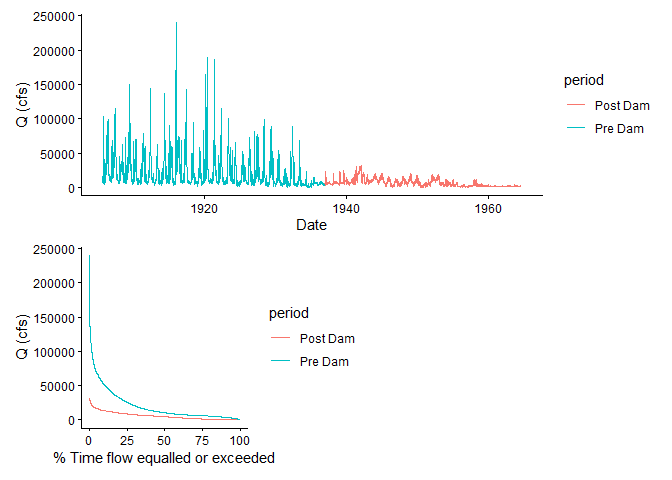
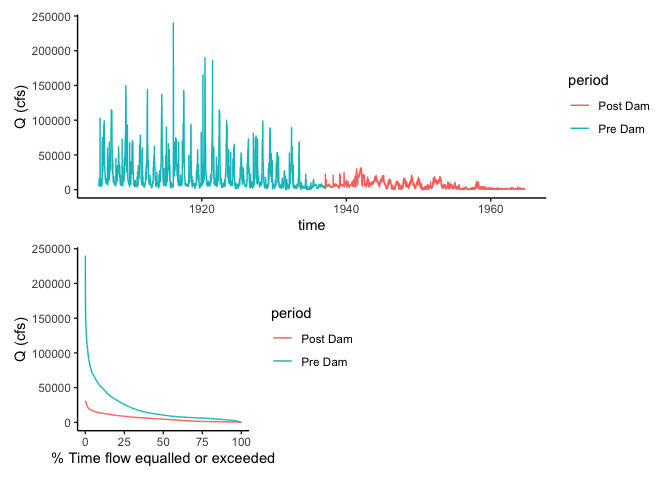
update dataretrieval

diff --git a/09-Flow_Duration_Curves.md b/09-Flow_Duration_Curves.md
@@ -1,6 +1,6 @@
 # Chapter 9: Flow Duration Curves
 JP Gannon
-2026-02-12
+2026-02-13
 
 # Flow Duration Curves
 
@@ -20,8 +20,8 @@ different way of looking at a pdf, and it can take some getting used to.
 But it is also a very useful tool!
 
 As always let’s load the packages we will use: tidyverse, dataRetrieval,
-lubridate, and patchwork. Patchwork will help us make a multi-panel
-graph in the last part of the exercise.
+and patchwork. Patchwork will help us make a multi-panel graph in the
+last part of the exercise.
 
 We will also use theme_set() in this chunk so we don’t have to change
 the ggplot theme every time we make a plot.
@@ -30,22 +30,12 @@ the ggplot theme every time we make a plot.
 library(tidyverse)
 ```
 
-    Warning: package 'tidyverse' was built under R version 4.3.3
-
-    Warning: package 'readr' was built under R version 4.3.3
-
-    Warning: package 'dplyr' was built under R version 4.3.3
-
-    Warning: package 'forcats' was built under R version 4.3.3
-
-    Warning: package 'lubridate' was built under R version 4.3.3
-
     ── Attaching core tidyverse packages ──────────────────────── tidyverse 2.0.0 ──
     ✔ dplyr     1.1.4     ✔ readr     2.1.5
     ✔ forcats   1.0.0     ✔ stringr   1.5.1
-    ✔ ggplot2   4.0.0     ✔ tibble    3.2.1
-    ✔ lubridate 1.9.4     ✔ tidyr     1.3.0
-    ✔ purrr     1.0.2     
+    ✔ ggplot2   3.5.1     ✔ tibble    3.2.1
+    ✔ lubridate 1.9.3     ✔ tidyr     1.3.1
+    ✔ purrr     1.0.4     
     ── Conflicts ────────────────────────────────────────── tidyverse_conflicts() ──
     ✖ dplyr::filter() masks stats::filter()
     ✖ dplyr::lag()    masks stats::lag()
@@ -53,7 +43,11 @@ library(tidyverse)
 
 ``` r
 library(dataRetrieval)
-library(lubridate)
+```
+
+    Warning: package 'dataRetrieval' was built under R version 4.4.3
+
+``` r
 library(patchwork)
 
 #set plot theme for the document so we 
@@ -70,24 +64,31 @@ We will download the data using USGS dataRetrieval and look at a line
 plot.
 
 ``` r
-siteno <- "02138500" #Linville NC
+siteno <- "USGS-02138500" #Linville NC
 startDate <- "1960-01-01"
 endDate <- "2020-01-01"
 parameter <- "00060"
 
-Qdat <- readNWISdv(siteno, parameter, startDate, endDate) |> 
-  renameNWISColumns()
+times <- c(startDate, endDate)
+
+Qdat <- read_waterdata_daily(
+  monitoring_location_id = siteno,
+  parameter_code = parameter,
+  time = times, 
+  skipGeometry = TRUE
+)
 ```
 
-    Warning: NWIS servers are slated for decommission. Please begin to migrate to
-    read_waterdata_daily.
+    Requesting:
+    https://api.waterdata.usgs.gov/ogcapi/v0/collections/daily/items?f=json&lang=en-US&skipGeometry=TRUE&monitoring_location_id=USGS-02138500&parameter_code=00060&time=1960-01-01%2F2020-01-01&limit=50000
 
-    GET: https://waterservices.usgs.gov/nwis/dv/?site=02138500&format=waterml%2C1.1&ParameterCd=00060&StatCd=00003&startDT=1960-01-01&endDT=2020-01-01
+    ⠙ Iterating 1 done (0.33/s) | 3s
 
 ``` r
 #Look at the data
-Qdat |> ggplot(aes(x = Date, y = Flow))+
-  geom_line()
+Qdat |> ggplot(aes(x = time, y = value))+
+  geom_line()+
+  ylab("Flow in CFS")
 ```
 
 ![](09-Flow_Duration_Curves_files/figure-commonmark/unnamed-chunk-2-1.png)
@@ -103,10 +104,10 @@ Make a plot to view the distribution of the discharge data.
 - What about the flow the river is at or above only 5% of the time?
 
 ``` r
-Qdat |> ggplot(aes(Flow))+
+Qdat |> ggplot(aes(value))+
   stat_density()+
   scale_x_log10()+
-  geom_vline(xintercept = median(Qdat$Flow), color = "red")
+  geom_vline(xintercept = median(Qdat$value), color = "red")
 ```
 
 ![](09-Flow_Duration_Curves_files/figure-commonmark/unnamed-chunk-3-1.png)
@@ -127,11 +128,12 @@ river is at or above only 25% of the time? Think carefully about what
 the y axis of the ECDF means.
 
 ``` r
-Qdat |> ggplot(aes(Flow))+
+Qdat |> ggplot(aes(value))+
   stat_ecdf()+
   scale_x_log10()+
-  geom_vline(xintercept = median(Qdat$Flow), color = "red")+
-  geom_vline(xintercept = quantile(Qdat$Flow)[4], color = "blue")
+  xlab("Flow in CFS")+
+  geom_vline(xintercept = median(Qdat$value), color = "red")+
+  geom_vline(xintercept = quantile(Qdat$value)[4], color = "blue")
 ```
 
 ![](09-Flow_Duration_Curves_files/figure-commonmark/unnamed-chunk-4-1.png)
@@ -162,16 +164,16 @@ M = Ranked position of the flow n = total number of observations in data
 record
 
 Here’s a description of what we will do: \> Pass our Qdat data to mutate
-and create a new column that is equal to the ranks of the discharge
-column. \> Then pass that result to mutate again and create another
-column equal exceedence probability (P) \* 100, which will give us %.
+and create a new column that is equal to the ranks of the flow column.
+\> Then pass that result to mutate again and create another column equal
+exceedence probability (P) \* 100, which will give us %.
 
 ``` r
 #Flow is negative in rank() to make 
 #high flows ranked low (#1)
 Qdat <- Qdat |>
-  mutate(rank = rank(-Flow)) |>
-  mutate(P = 100 * (rank / (length(Flow) + 1)))
+  mutate(rank = rank(-value)) |>
+  mutate(P = 100 * (rank / (length(value) + 1)))
 ```
 
 ## Plot a Flow Duration Curve using the probabilities
@@ -190,7 +192,7 @@ name for the x axis? \* What would the X axis be called if we were using
 maximum yearly data?
 
 ``` r
-Qdat |> ggplot(aes(x = P, y = Flow))+
+Qdat |> ggplot(aes(x = P, y = value))+
   geom_line()+
   scale_y_log10()+
   xlab("% Time flow equalled or exceeded")+
@@ -210,7 +212,7 @@ with scale_y_reverse and flip the axes (change the x to y and the y to
 x) with coord_flip()
 
 ``` r
-Qdat |> ggplot(aes(Flow))+
+Qdat |> ggplot(aes(value))+
   stat_ecdf()+
   scale_x_log10()+
   scale_y_reverse()+
@@ -249,17 +251,17 @@ periods of 1960-1980, 1980-2000, and 2000-2020.
 
 ``` r
 Qdat <- Qdat |>
-  mutate(year = year(Date)) |>
+  mutate(year = year(time)) |>
   mutate(period = case_when( year <= 1980 ~ "1960-1980",
                              year > 1980 & year <= 2000 ~ "1980-2000",
                              year > 2000 ~ "2000-2020"))
 
 Qdat <- Qdat |>
   group_by(period) |>
-  mutate(rank = rank(-Flow)) |> 
-  mutate(P = 100 * (rank / (length(Flow) + 1)))
+  mutate(rank = rank(-value)) |> 
+  mutate(P = 100 * (rank / (length(value) + 1)))
 
-Qdat |> ggplot(aes(x = P, y = Flow, color = period))+
+Qdat |> ggplot(aes(x = P, y = value, color = period))+
   geom_line()+
   scale_y_log10()+
   xlab("% Time flow equalled or exceeded")+
@@ -280,8 +282,9 @@ What are the advantages/disadvantages of the flow duration curves
 vs. boxplots?
 
 ``` r
-Qdat |> ggplot(aes(x = period, y = Flow)) +
+Qdat |> ggplot(aes(x = period, y = value)) +
   geom_boxplot()+
+  ylab("Flow in CFS")+
   scale_y_log10()
 ```
 
@@ -299,32 +302,35 @@ curves to examine the differences in discharge for the periods: 1905 -
 How does the FDC show the differences you observed in the line plot?
 
 ``` r
-siteid <- "09521000"
+siteid <- "USGS-09521000"
 startDate <- "1905-10-01"
 endDate <- "1965-10-01"
 parameter <- "00060"
 
-WS <- readNWISdv(siteid, parameter, startDate, endDate) |> 
-  renameNWISColumns() |>
-  mutate(year = year(Date)) |>
+times <- c(startDate, endDate)
+
+WS <- read_waterdata_daily(
+  monitoring_location_id = siteid,
+  parameter_code = parameter,
+  time = times, 
+  skipGeometry = TRUE) |>
+  mutate(year = year(time)) |>
   mutate(period = case_when( year <= 1936 ~ "Pre Dam",
                              year > 1936  ~ "Post Dam")) |>
   group_by(period) |>
-  mutate(rank = rank(-Flow)) |> 
-  mutate(P = 100 * (rank / (length(Flow) + 1)))
+  mutate(rank = rank(-value)) |> 
+  mutate(P = 100 * (rank / (length(value) + 1)))
 ```
 
-    Warning: NWIS servers are slated for decommission. Please begin to migrate to
-    read_waterdata_daily.
-
-    GET: https://waterservices.usgs.gov/nwis/dv/?site=09521000&format=waterml%2C1.1&ParameterCd=00060&StatCd=00003&startDT=1905-10-01&endDT=1965-10-01
+    Requesting:
+    https://api.waterdata.usgs.gov/ogcapi/v0/collections/daily/items?f=json&lang=en-US&skipGeometry=TRUE&monitoring_location_id=USGS-09521000&parameter_code=00060&time=1905-10-01%2F1965-10-01&limit=50000
 
 ``` r
-flow <- ggplot(WS, aes(Date, Flow, color = period))+
+flow <- ggplot(WS, aes(time, value, color = period))+
   geom_line()+
   ylab("Q (cfs)")
 
-fdc <- WS |> ggplot(aes(x = P, y = Flow, color = period))+
+fdc <- WS |> ggplot(aes(x = P, y = value, color = period))+
   geom_line()+
   #scale_y_log10()+
   xlab("% Time flow equalled or exceeded")+
